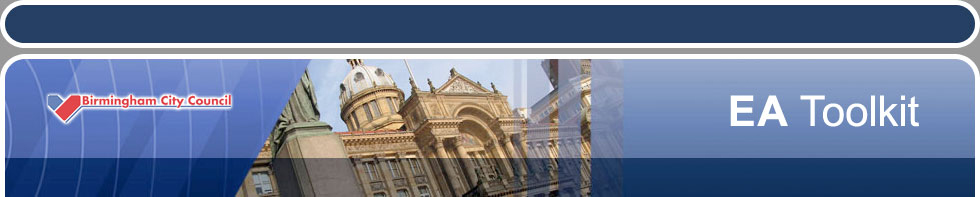
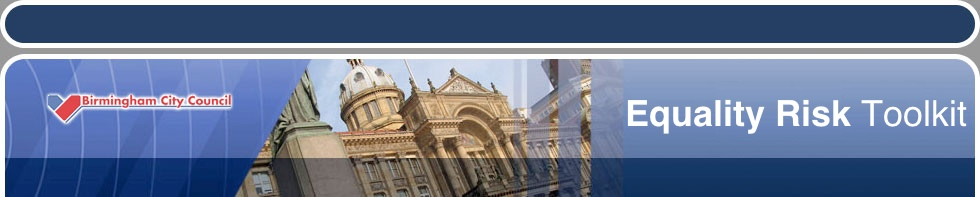
Rebranded toolkit

Changed region(s): [[0.6429, 0.4569, 1.0, 0.6701], [0.0612, 0.4873, 0.2449, 0.5482], [0.0306, 0.2741, 0.0612, 0.3046]]

diff --git a/public/422.html b/public/422.html
@@ -2,7 +2,7 @@
        "http://www.w3.org/TR/xhtml1/DTD/xhtml1-transitional.dtd">
 <html 'xmlns'='http://www.w3.org/1999/xhtml' 'xml:lang'='en' 'lang'='en'>
   <head>
-    <title>EA Toolkit - The page you were looking for doesn't exist (404)</title>
+    <title>Equality Risk Toolkit - The page you were looking for doesn't exist (404)</title>
     <meta 'http-equiv'='content-type' 'content'='text/html;charset=UTF-8' />
     <link href="/stylesheets/base.css" media="screen" rel="Stylesheet" type="text/css" />
     
@@ -18,7 +18,7 @@
       </div>
       <div id='breadcrumb'>
         <p>
-          Birmingham City Council EA Toolkit
+          Birmingham City Council Equality Risk Toolkit
         </p>
       </div>
       <div class='content'>
@@ -35,7 +35,7 @@
   
       <div class='footer'>
         <p>
-          &copy; 2011 Birmingham City Council EA Toolkit, Powered by <a href='#'>Black Radley Systems Limited</a>. All rights reserved.
+          &copy; 2011 Birmingham City Council Equality Risk Toolkit, Powered by <a href='#'>Black Radley Systems Limited</a>. All rights reserved.
         </p>
       </div>
       <div class='clear'></div>

diff --git a/public/404.html b/public/404.html
@@ -2,7 +2,7 @@
        "http://www.w3.org/TR/xhtml1/DTD/xhtml1-transitional.dtd">
 <html 'xmlns'='http://www.w3.org/1999/xhtml' 'xml:lang'='en' 'lang'='en'>
   <head>
-    <title>EA Toolkit - The page you were looking for doesn't exist (404)</title>
+    <title>Equality Risk Toolkit - The page you were looking for doesn't exist (404)</title>
     <meta 'http-equiv'='content-type' 'content'='text/html;charset=UTF-8' />
     <link href="/stylesheets/base_packaged.css" media="screen" rel="Stylesheet" type="text/css" />
     
@@ -18,7 +18,7 @@
       </div>
       <div id='breadcrumb'>
         <p>
-          Birmingham City Council EA Toolkit
+          Birmingham City Council Equality Risk Toolkit
         </p>
       </div>
       <div class='content'>

diff --git a/public/500.html b/public/500.html
@@ -2,7 +2,7 @@
        "http://www.w3.org/TR/xhtml1/DTD/xhtml1-transitional.dtd">
 <html 'xmlns'='http://www.w3.org/1999/xhtml' 'xml:lang'='en' 'lang'='en'>
   <head>
-    <title>EA Toolkit - The page you were looking for doesn't exist (404)</title>
+    <title>Equality Risk Toolkit - The page you were looking for doesn't exist (404)</title>
     <meta 'http-equiv'='content-type' 'content'='text/html;charset=UTF-8' />
     <link href="/stylesheets/base_packaged.css" media="screen" rel="Stylesheet" type="text/css" />
     
@@ -18,7 +18,7 @@
       </div>
       <div id='breadcrumb'>
         <p>
-          Birmingham City Council EA Toolkit
+          Birmingham City Council Equality Risk Toolkit
         </p>
       </div>
       <div class='content'>

diff --git a/lib/schedule_pdf_generator.rb b/lib/schedule_pdf_generator.rb
@@ -48,7 +48,7 @@ class SchedulePDFGenerator
       # @pdf.image( "#{Rails.root}/public/images/header_bg.jpg", :justification => :center, :resize => 0.5)
       @pdf.text "<b>Birmingham City Council</b>", :justification => :center, :font_size => 22
       @pdf.text " ", :justification => :center, :font_size => 10
-      @pdf.text "<c:uline><b>Birmingham City Council EA Toolkit Schedule Report</b></c:uline>", :justification => :center, :font_size => 14
+      @pdf.text "<c:uline><b>Birmingham City Council Equality Risk Toolkit Schedule Report</b></c:uline>", :justification => :center, :font_size => 14
       @pdf.text " ", :justification => :center, :font_size => 10 #Serves as a new line character. Is this more readable than moving the cursor manually?
     return @pdf
   end

diff --git a/app/mailers/mailer.rb b/app/mailers/mailer.rb
@@ -53,7 +53,7 @@ class Mailer < ActionMailer::Base
     @user     = user
     @password = password
     mail(:to => user.email,
-         :subject => "Welcome to the EA Toolkit")
+         :subject => "Welcome to the Equality Risk Toolkit")
   end
   
   def activity_submitted(activity, email_contents)
